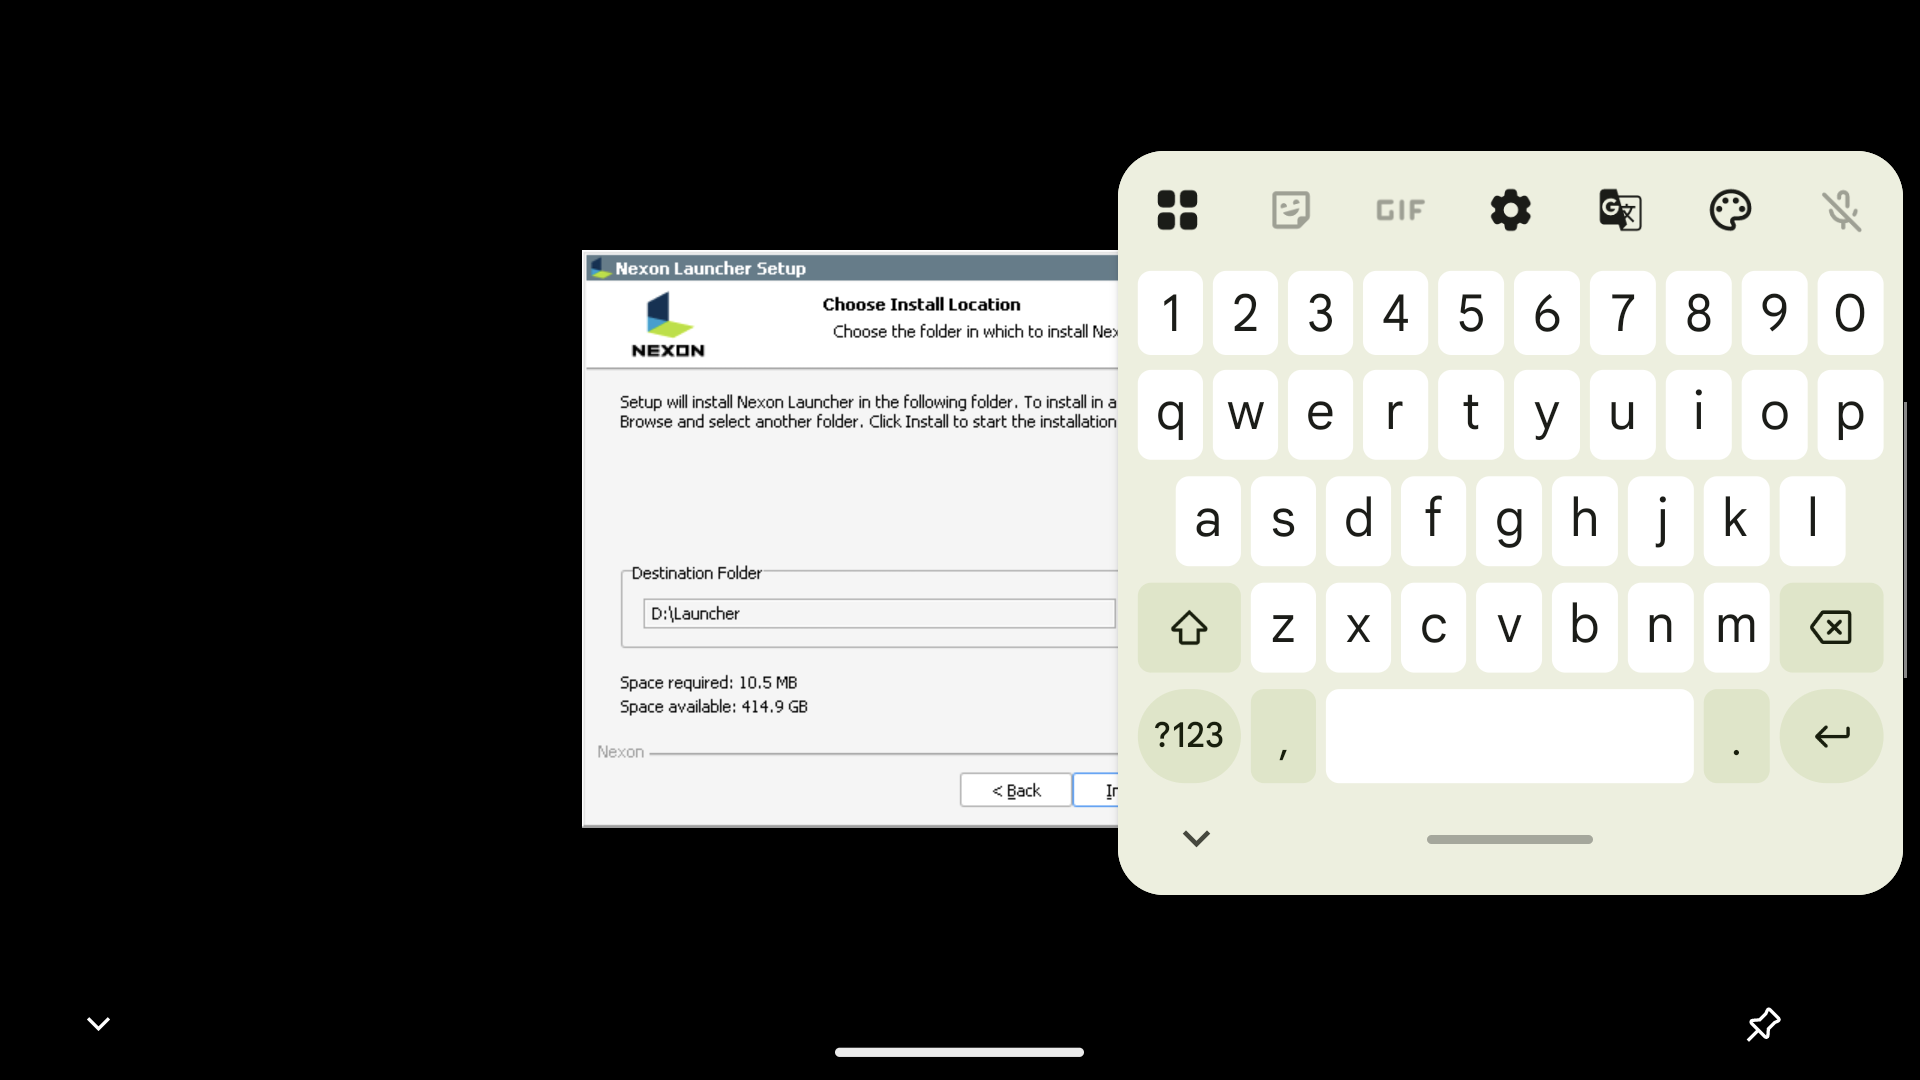
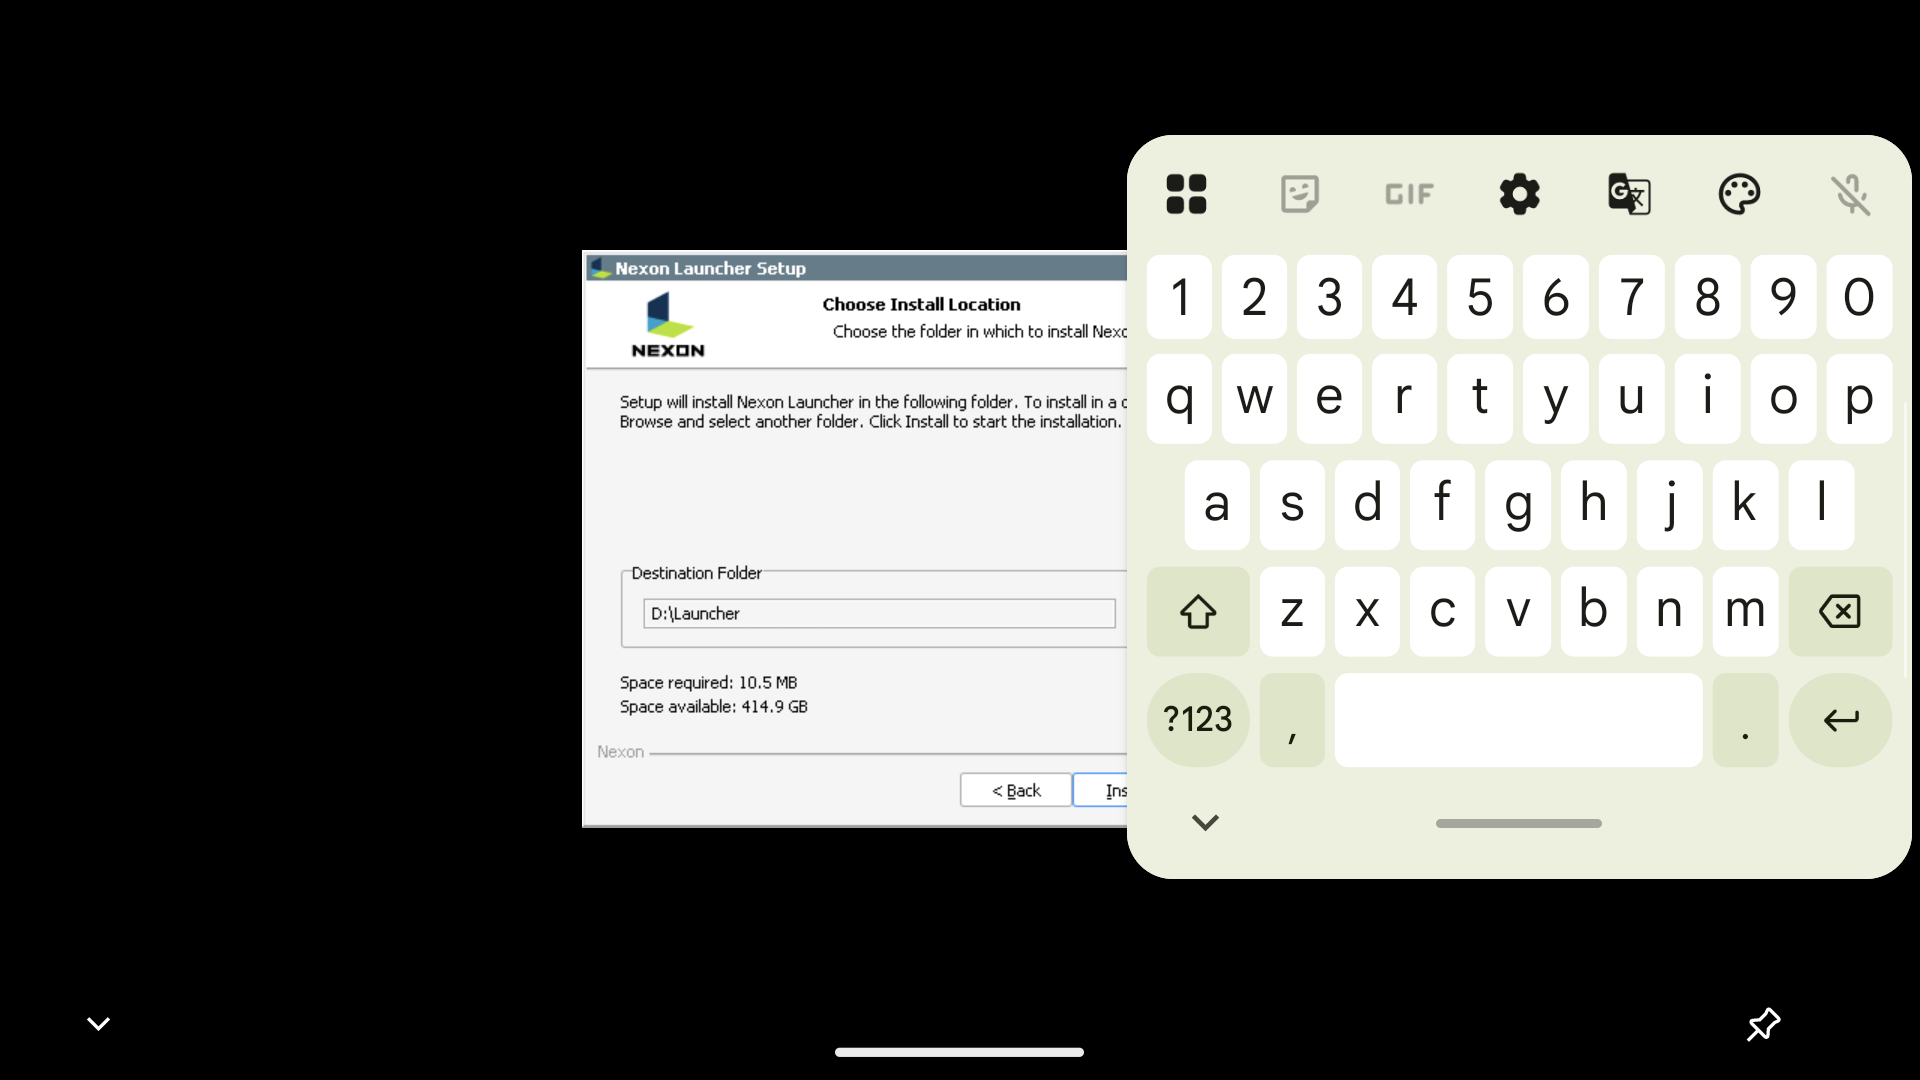
Add fresh setup screenshots and launcher recovery steps

Changed region(s): [[0.5625, 0.1222, 1.0, 0.8556], [0.5938, 0.6417, 0.6562, 0.7028]]

diff --git a/README.md b/README.md
@@ -65,8 +65,8 @@ not from inside the ZIP.
 ## 2. Let your computer talk to the Thor
 
 1. On the Thor, open Android's **Settings**.
-2. Open **About device** or the equivalent About page. Find **Build number**.
-   Android's menu names vary. Use Settings search if you can't find it.
+2. Scroll to the bottom and open **About handheld console**. Scroll down to
+   **Build number**. On other firmware, this page may be called **About device**.
 3. Tap **Build number seven times**. Enter the Thor's screen-lock PIN if asked.
    You should see a message saying developer options are enabled.
 4. Return to Settings. Open **System**, then **Developer options**. If it isn't
@@ -79,6 +79,15 @@ not from inside the ZIP.
 Watch the Thor for an **Allow USB debugging?** message. It may appear when the
 helper starts. Tap **Allow**. This permission lets the helper install the app
 and copy the files.
+
+<details>
+<summary>Find the Android settings and USB debugging switch</summary>
+
+![Android Settings with System and About handheld console near the bottom](docs/images/android-settings.png)
+
+![Developer options with USB debugging switched on](docs/images/usb-debugging.png)
+
+</details>
 
 ## 3. Run the helper
 
@@ -135,7 +144,9 @@ You should now have both runtimes available. The final Proton component ID is
 `proton-11.0-2-arm64ec-1`. Avoid similarly named packages ending in `-6`.
 
 <details>
-<summary>What the successful runtime import looks like</summary>
+<summary>Find the runtime import button and check the finished import</summary>
+
+![Wine/Proton Manager scrolled down to Import .wcp Package](docs/images/runtime-import.png)
 
 ![Proton installed successfully in Wine/Proton Manager](docs/images/runtime-installed.png)
 
@@ -160,6 +171,17 @@ You should now have both runtimes available. The final Proton component ID is
 
 In these settings, GameNative may call the Windows environment a **container**.
 Keep using this same entry and container throughout the guide.
+
+<details>
+<summary>Choose the installer folder and open its settings</summary>
+
+![NexonLauncher folder with NexonLauncherSetup.exe and Use this folder at the bottom](docs/images/installer-folder.png)
+
+![NexonLauncher entry with the gear beside Play](docs/images/launcher-entry.png)
+
+![Options panel with Edit container at the top](docs/images/edit-container.png)
+
+</details>
 
 ## 6. Enter the installer settings
 
@@ -229,7 +251,9 @@ different, use its floating or resize control so you can see the field while
 typing. Keep it floating for the launcher sign-in too.
 
 <details>
-<summary>See the floating keyboard beside the destination field</summary>
+<summary>Check the touch modes and floating keyboard</summary>
+
+![Quick Menu with Touchscreen Mode on and Shooter Mode off](docs/images/touchscreen-modes.png)
 
 ![Floating keyboard moved right so D:\Launcher stays visible while typing](docs/images/floating-keyboard.png)
 
@@ -277,7 +301,9 @@ Keep this container. Creating a second one would leave the launcher's installed
 Windows files and registration behind.
 
 <details>
-<summary>Check the saved launcher path and runtime</summary>
+<summary>Enter the launcher path, then check the saved settings</summary>
+
+![Custom path dialog above the docked keyboard with D:/Launcher/nexon_launcher.exe visible](docs/images/launcher-path-keyboard.png)
 
 ![General tab with Proton 11 ARM64EC and D:/Launcher/nexon_launcher.exe saved](docs/images/launcher-general.png)
 
@@ -318,6 +344,10 @@ Keep **Display Renderer** on **GL** when using these settings.
 
 ## 10. Turn on touch and sign in
 
+Let the launcher's first update finish. If it leaves a black screen, press
+**Android Back**, tap the **red exit icon at the bottom left**, then open the
+same **NexonLauncher** entry and tap **Play** again.
+
 1. While Nexon Launcher is running, press **Android Back** to open GameNative's
    **Quick Menu**.
 2. Open **Controller** and scroll down in its panel.
@@ -336,6 +366,13 @@ Keep **Display Renderer** on **GL** when using these settings.
 
 If a blank panel appears after login, use the restart steps under
 [a frozen or corrupted launcher](#the-launcher-freezes-or-shows-corrupted-graphics).
+
+<details>
+<summary>Keep the sign-in field visible beside the keyboard</summary>
+
+![Nexon sign-in field and Continue button visible beside the floating keyboard](docs/images/launcher-login-keyboard.png)
+
+</details>
 
 ## 11. Download Classic World
 
@@ -447,6 +484,12 @@ and Shooter Mode is off too.
 4. Sign in again if asked, close **What's New**, and maximize the launcher.
 5. Choose **MapleStory → Classic World** and check for **Play**. Keep your app
    data and the same container.
+
+If that restart still leaves a black or frozen screen, exit through Quick Menu
+again. On Android, open **Settings → Apps → See all apps → GameNative**. Tap
+**Force stop → OK**, then **Open**. Choose **Skip login** if GameNative shows
+its Steam sign-in screen, then launch the same NexonLauncher entry. Your
+container and installed files stay in place.
 
 If the launcher responds but the edges look duplicated or corrupted, first
 close **What's New** and maximize the launcher as described in step 10.
